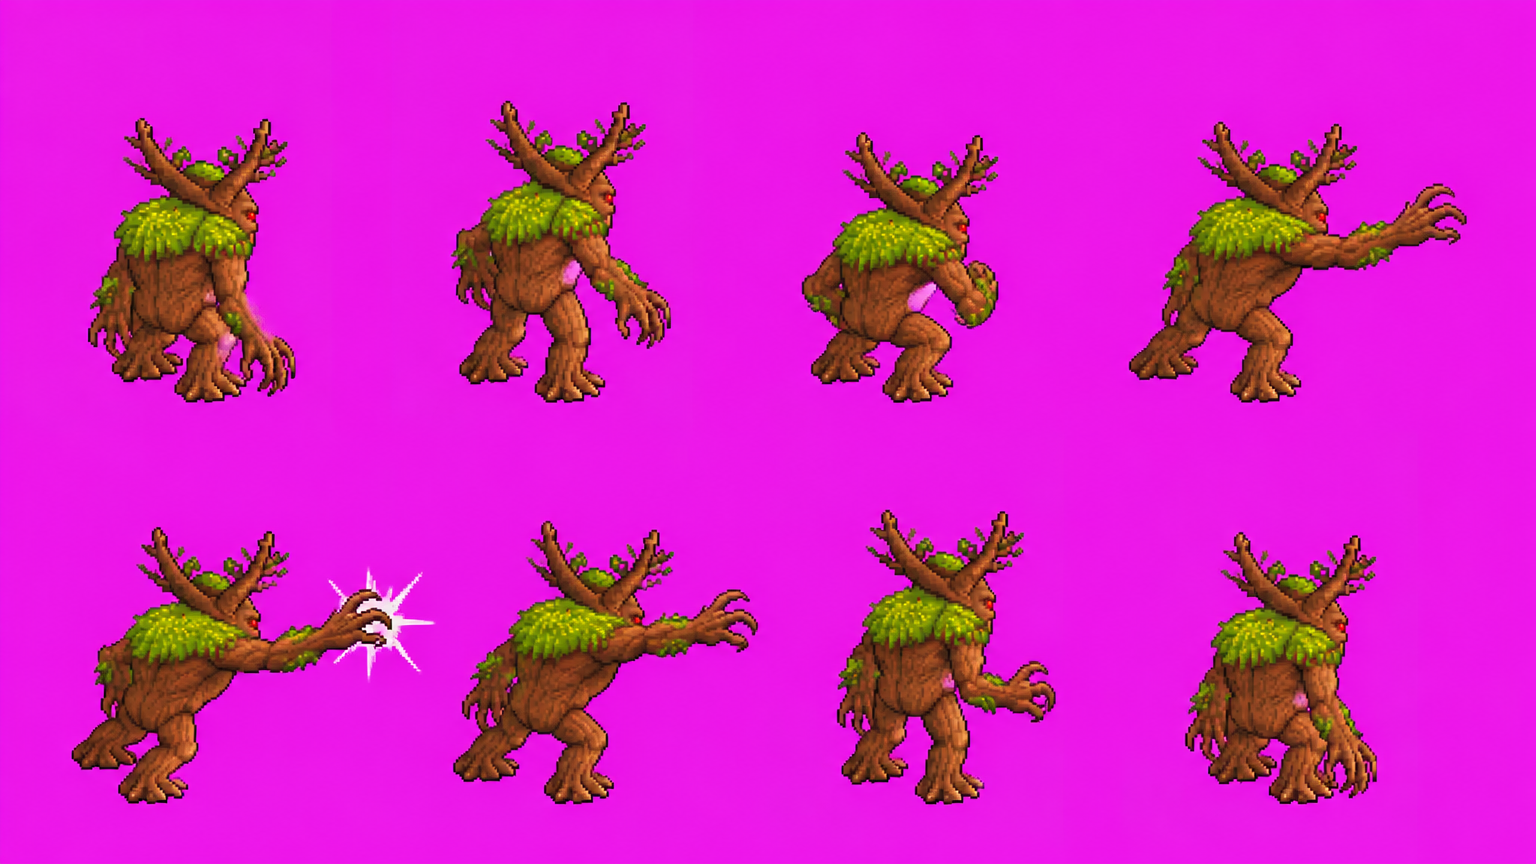
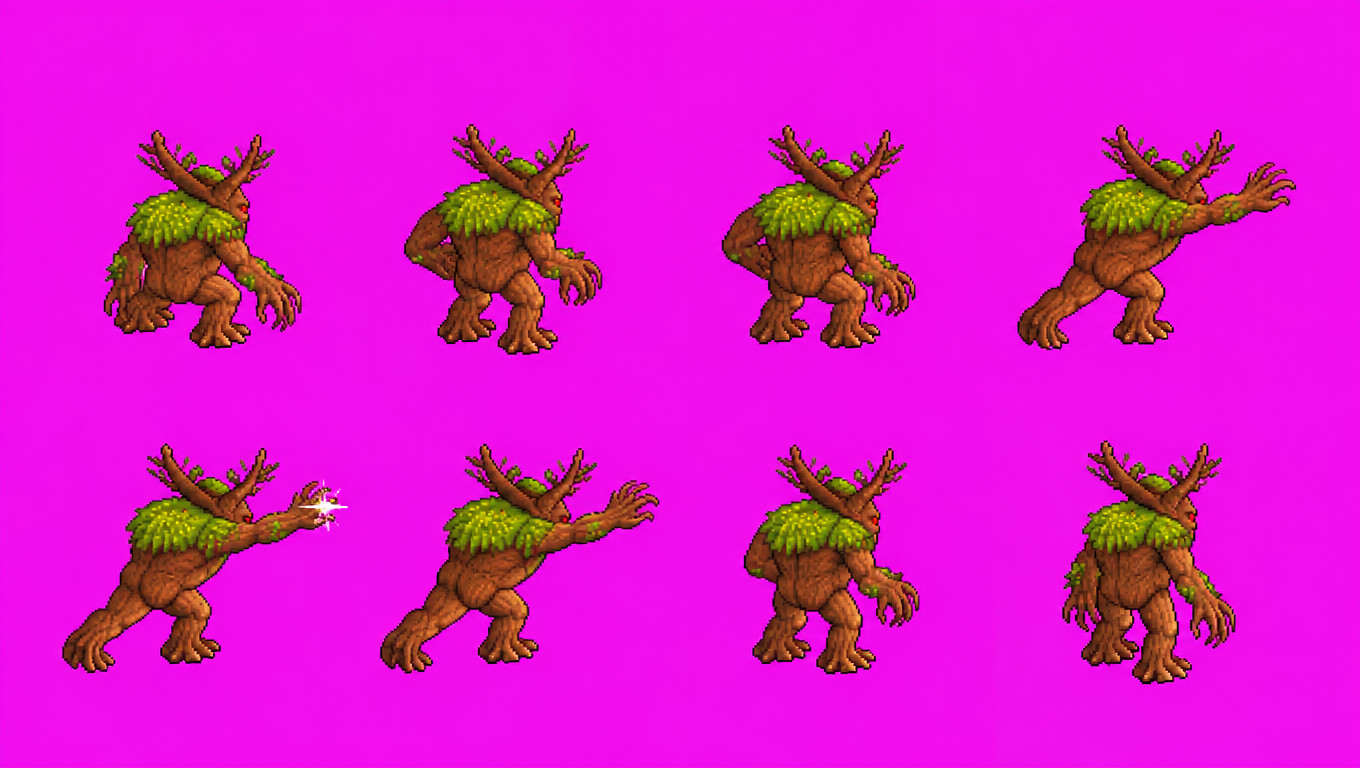
Regenerate treant up-right attack as a true back view; asset review notes

diff --git a/assets/PROVENANCE.md b/assets/PROVENANCE.md
@@ -1352,3 +1352,11 @@ Style: Cute modern pixel RPG for mobile idle games, retro 16-bit pixel art match
 Frames: (1) walk: first step contact; (2) walk: down; (3) walk: passing, up; (4) walk: second step contact; (5) walk: down; (6) walk: passing, up.
 
 Every frame is the SAME monster with the same colors, size and proportions; only the pose changes. Frames are in a strict grid of equal cells, read left to right, top to bottom, each monster centered in its cell with plenty of empty space, nothing touching the cell borders or the canvas edge. Background: perfectly flat solid pure magenta #FF00FF everywhere, no ground, no cast shadow, no grid lines, no borders, no text. One sprite sheet image only.
+
+- **d4-treant-attack-ur(重生,2026-10-05)**:原版畫成側面,加強背面描述後用 l0veyou GPT Image 2 重生(2 張選 1):Pixel art monster sprite sheet. EXACTLY 8 frames in a 4x2 grid (4 columns x 2 rows). Use the attached reference image as the exact monster design and viewing angle. The monster: the forest lord boss: a huge ancient treant with a dark bark body, glowing red eyes, a fanged mouth, long clawed root-arms and big antler-like branches with green leaves (tall menacing silhouette).
+
+Style: Cute modern pixel RPG for mobile idle games, retro 16-bit pixel art matching cute chibi heroes. STRONG CLEAR SILHOUETTE, readable at small size. Limited palette of about 14 colors, flat color blocking with 3 shades per material (dark/mid/light), dark colored sel-out outline (dark brown, not pure black, not thick), crisp hard pixel edges, NO anti-aliasing, NO blur, NO gradients, NO dithering noise. 3/4 BACK VIEW angled to the UPPER RIGHT (isometric up-right): the monster is turned about 45 degrees away from the camera and toward the upper right, we see the back and the right side, only a sliver of the cheek (no full face), it faces and moves toward the UPPER RIGHT of the screen in every frame. IMPORTANT: every frame keeps the SAME back view as the reference: we see the treant's BACK (mossy back, back of the antlers), never its face or its side profile; the arm reaches forward away from the camera toward the upper right.
+
+Frames: (1) anticipation: crouch, eyes on the target toward the upper right; (2) wind-up: pull back; (3) coil: tense, ready to strike; (4) start the attack toward the upper right; (5) IMPACT: full attack toward the upper right (bite / lunge / punch / claw swipe) with a small white impact flash; (6) follow-through, overextended toward the upper right; (7) recovery, pulling back; (8) back to idle stance.
+
+Every frame is the SAME monster with the same colors, size and proportions; only the pose changes. Frames are in a strict grid of equal cells, read left to right, top to bottom, each monster centered in its cell with plenty of empty space, nothing touching the cell borders or the canvas edge. Background: perfectly flat solid pure magenta #FF00FF everywhere, no ground, no cast shadow, no grid lines, no borders, no text. One sprite sheet image only.

diff --git a/pipeline/HANDOFF.md b/pipeline/HANDOFF.md
@@ -8,6 +8,7 @@
   `MODEL` 環境變數選模型,`generate.mjs` 內建 6 分鐘 watchdog — Windows 的 `timeout` 殺不掉卡住的 CDP 連線)。l0veyou 要在 **Chrome for Testing**(CDP 9447、`work/.l0veyou-profile`)登入,不是一般 Chrome。
   使用者試過 2.5 满血版 / 极速版後決定用 GPT Image 2(全部同一模型,風格一致)。
 - build_hero.py:走路格模型常把踩低格整隻畫小 12–15% → 縮完用 audit 同一量法(軀幹 ±10px)把偏離中位數 >6% 的格縮放回來;格大小最大到 384(樹人背面普攻伸手)。
+- 素材總檢(2026-10-05):9 角色 × 每列逐格看過;樹人右上普攻原本畫成側面 → 重生。已知小瑕疵(可接受):弓箭手右上勝利姿勢轉頭露臉、史萊姆背面眼睛在側邊。尺寸逐列實量都在待機 ±15% 內(預覽圖把大格縮小會看起來變小,別誤判)。
 - 全部通過:audit_hero_sheet(9/9)、npm test、check_facing(0 bad)、check_anim(flicker 0)、check_zorder、check_placement、check_embedded_assets、check_gates。總覽圖:四方向 × 待機/走路 9 角色。
 
 ## 2026-10-05:四方向(上下左右)— 全部英雄與魔物(最新)
